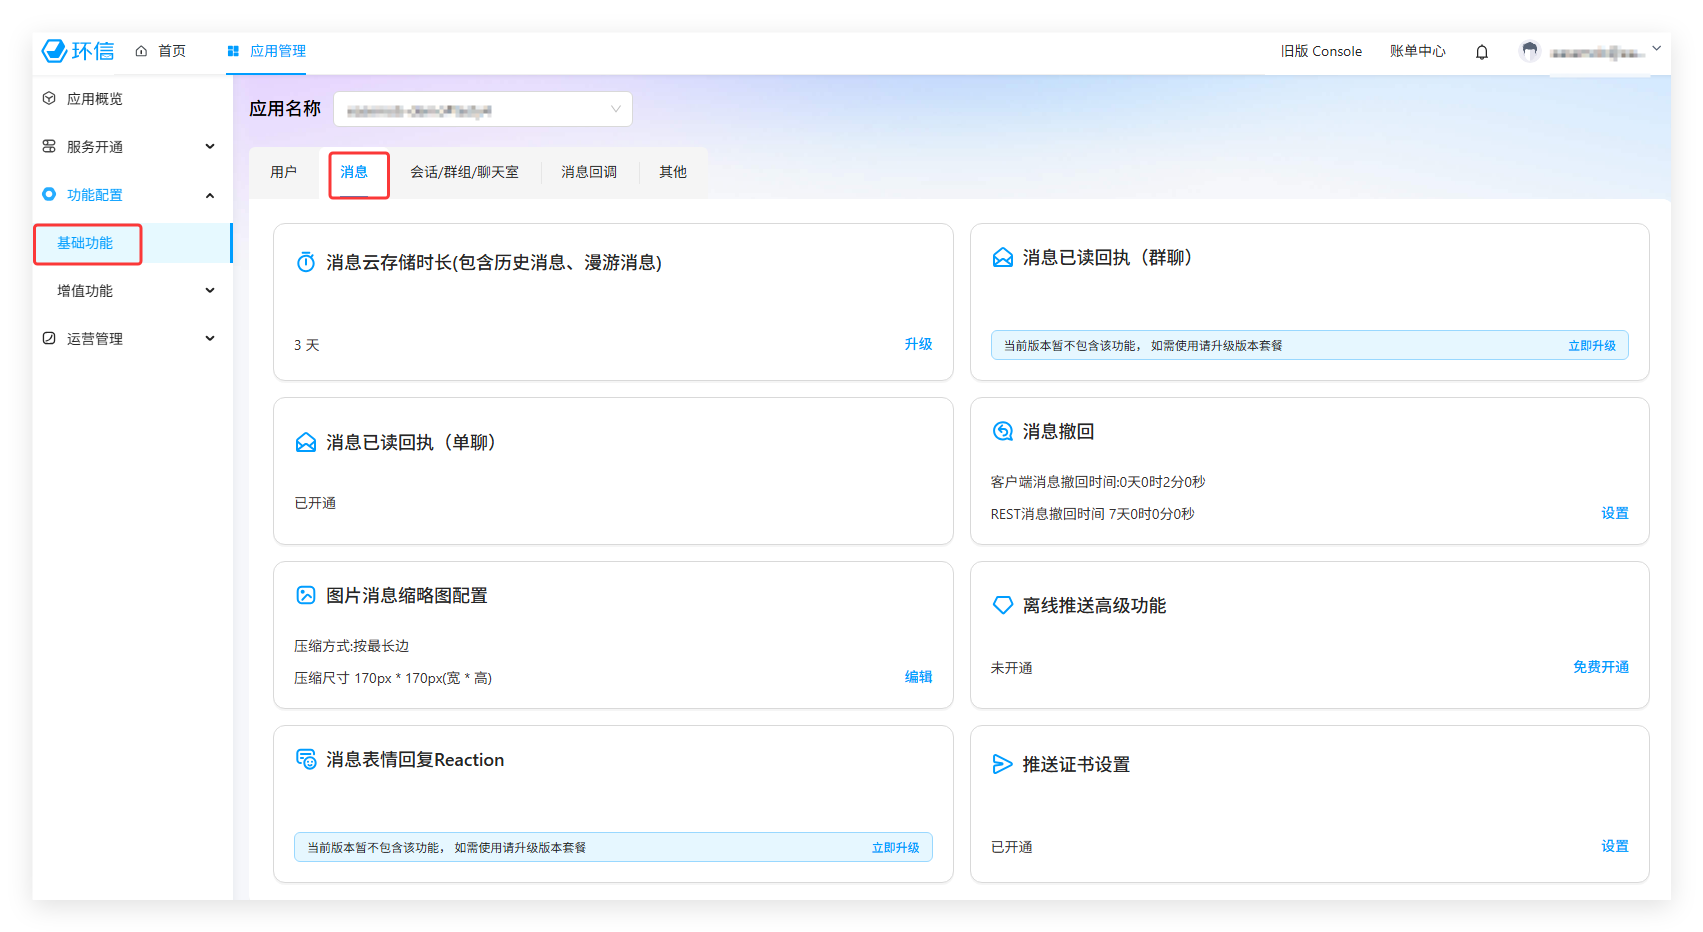
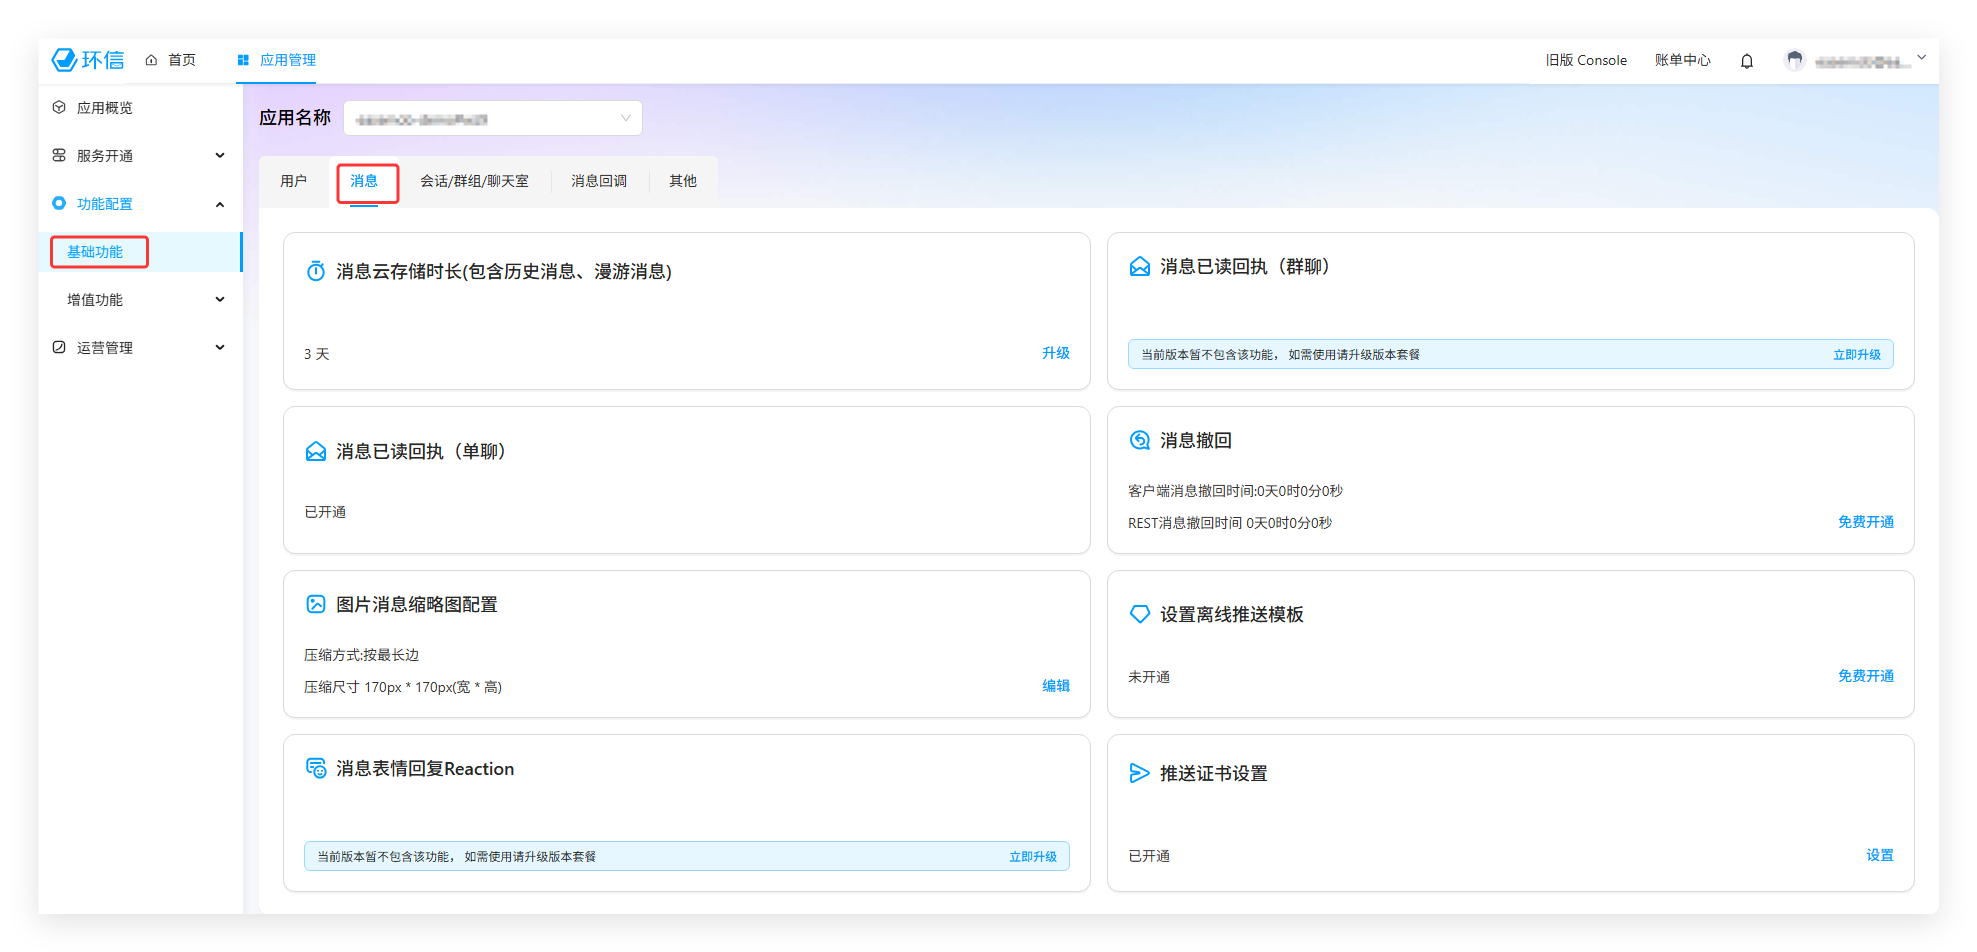
modify

diff --git a/docs/.vuepress/sidebar/index.ts b/docs/.vuepress/sidebar/index.ts
@@ -552,7 +552,9 @@ export const zhSidebar = sidebar({
              children: [
              { text: "数据查询", link: "console/operation_data.html" },
              { text: "消息量统计", link: "console/operation_message_statistics.html" }, 
-             {
+             ],
+            },
+            {
              text: "问题排查",
              collapsible: true,
              children: [
@@ -561,8 +563,6 @@ export const zhSidebar = sidebar({
              { text: "用户连接状态查询", link: "console/operation_troubleshooting_user_connection.html" },
              { text: "用户设备日志", link: "console/operation_troubleshooting_device_log.html" },
              { text: "聊天室消息速率", link: "console/operation_troubleshooting_chatroom_rate.html" },
-             ],
-            },
              ],
             },
           ],

diff --git a/docs/product/console/basic_webhook.md b/docs/product/console/basic_webhook.md
@@ -23,7 +23,7 @@
 
 ### 回调异常缓存
 
-对于发送后回调，每条回调请求发送失败仅重试一次，重试失败后即丢弃。若有特殊需求不能丢失回调消息的情况下，请联系环信商务开通回调异常缓存功能。
+对于发送后回调，每条回调请求发送失败仅重试一次，重试失败后即丢弃。若有特殊需求不能丢失回调消息的情况下，可开通回调异常缓存功能。
 
 服务开通后，你可以使用 [查询回调异常缓存](/document/server-side/callback_postsending.html#查询回调存储详情)和 [补发回调储存信息](/document/server-side/callback_postsending.html#补发回调存储信息) 接口。
 
@@ -97,7 +97,7 @@
 | 参数 | 是否必需 | 描述       |
 | :--------------------- | :------- | :--------------- |
 | 告警开关 | 是 | 是否开启发送后回调失败告警功能。      |
-| 告警策略 | 是 | <br/> - **告警间隔**：触发告警的时间间隔，单位为 5 分钟。 <br/> - **触发次数**：告警间隔内触发告警的回调失败次数。   |
+| 告警策略 | 是 | - **告警间隔**：触发告警的时间间隔，单位为 5 分钟。 <br/> - **触发次数**：告警间隔内触发告警的回调失败次数。   |
 | 邮箱地址 | 是 | 接收发送后回调失败告警的邮箱地址。一次最多可输入 20 个，每行一个。      |
 
 

diff --git a/docs/product/console/basic_message.md b/docs/product/console/basic_message.md
@@ -63,13 +63,15 @@
 
 ![img](/images/console/basic_message_thumbnail_edit.png)
 
-## 离线推送高级功能
+## 设置离线推送模板
 
 离线推送的高级功能包括 [推送通知方式](/document/android/push/push_notification_mode_dnd.html#推送通知方式)、[免打扰模式](/document/android/push/push_notification_mode_dnd.html#免打扰模式) 和 [推送模板](/document/android/push/push_display.html#使用推送模板)。
 
-使用前离线推送高级功能，需点击 **免费开通** 开通该功能。功能开通后，你可以配置推送模板，详见 [推送模板配置文档](push_template.html)。 
+使用前离线推送高级功能，需点击 **免费开通** 开通该功能。功能开通后，你可以点击 **设置** 配置推送模板，详见 [推送模板配置文档](push_template.html)。 
 
 ![img](/images/console/basic_message_push_offline.png)
+
+![img](/images/console/basic_message_push_online_set.png)
 
 ## 推送证书配置
 

diff --git a/docs/product/product_message_format.md b/docs/product/product_message_format.md
@@ -258,6 +258,8 @@
 | `name`         | String       | 推送模板名称。                                                 |
 | `title_args`   | `List<String>` | 推送模板标题参数，内置参数：发送方昵称 `{$fromNickname}`。      |
 | `content_args` | `List<String>` | 推送模板内容参数，内置参数：消息内容 `{$msg}`，如果开通了翻译，消息内容会跟随翻译结果显示。 |
+| `directed_template` | Object        | 定向推送模板。此类模板适用于群组消息的离线推送，即群组中某个或某些用户需要接收接收的离线推送通知与其他用户不同的场景。其中的字段如下表所示。    |
+| `disable_at_content` | Boolean        | 是否禁用默认 @ 内容：<br/> - `true`：禁用<br/> - （默认）`false`：不禁用  |
 
 关于 `title_args` 和 `content_args` 字段的设置，详见[推送模板文档](/document/server-side/push.html#使用推送模板)。
 

diff --git a/docs/document/server-side/push_extension.md b/docs/document/server-side/push_extension.md
@@ -35,6 +35,7 @@
 | `title_args`   | `List<String>` | 推送模板标题参数，内置参数：发送方昵称 `{$fromNickname}`。      |
 | `content_args` | `List<String>` | 推送模板内容参数，内置参数：消息内容 `{$msg}`，如果开通了翻译，消息内容会跟随翻译结果显示。 |
 | `directed_template` | Object        | 定向推送模板。此类模板适用于群组消息的离线推送，即群组中某个或某些用户需要接收接收的离线推送通知与其他用户不同的场景。其中的字段如下表所示。    |
+| `disable_at_content` | Boolean        | 是否禁用默认 @ 内容：<br/> - `true`：禁用<br/> - （默认）`false`：不禁用  |
 
 定向模板中的字段：
 

diff --git a/docs/product/console/account_sub_create.md b/docs/product/console/account_sub_create.md
@@ -7,7 +7,7 @@
 ## 创建子账号
 
 1. 使用主账号登录 [环信控制台](https://console.easemob.com/user/login)。
-2. 鼠标悬停或单击右上角账号管理下拉菜单，选择 **成员管理**。
+2. 鼠标悬停或单击右上角账号管理下拉菜单，选择 **成员管理**。你可以可以选择 **账号信息**，然后在左侧导航栏选择 **成员管理**。
 3. 在 **成员管理** 页面，点击 **添加成员**。
 4. 在 **创建成员** 对话框，设置子账号信息，包括登录邮箱、登录密码、手机号码、角色权限和备注。
 5. 点击 **创建** 保存子账号信息。

diff --git a/docs/product/console/moderation_rule_test.md b/docs/product/console/moderation_rule_test.md
@@ -18,7 +18,7 @@
    
 6. 在 **消息处理结果** 栏中，查看审核结果和消息处理结果。
 
-审核结果：表示智能模型审核返回的结果。如果该结果不符合预期，可通过新增自定义调整，如有疑问可联系商务。
+审核结果：表示智能模型审核返回的结果。如果该结果不符合预期，可联系商务开通在第三方平台新增自定义词条的功能。
 
 - 调用成功时，会返回 通过/拒绝/疑似；
 - 调用异常，会出现 无权限/调用失败（即超时未返回结果）两类情况。

diff --git a/docs/product/console/moderation_history.md b/docs/product/console/moderation_history.md
@@ -41,4 +41,4 @@
 通过查看历史记录列表中的 **消息处置结果**，判断审核结果是否符合业务预期。
 
 - 若不符合，修改对应的规则配置，详见 [规则配置](moderation_rule_config.html)。
-- 若符合，说明审核服务的逻辑符合预期，但实际 IM 消息表现效果不一致，则请在IM的支持群中发出问题进行排查解决。
+- 若符合，说明审核服务的逻辑符合预期，但实际 IM 消息表现效果不一致，请联系环信技术支持。

diff --git a/docs/product/console/account_register.md b/docs/product/console/account_register.md
@@ -6,7 +6,7 @@
 
 你可以通过手机号和短信验证码注册环信账号：
 
-1. 打开 [环信控制台](https://console.easemob.com/user/login) 登录页面。
+1. 打开 [环信控制台](https://console.easemob.com/user/register) 登录页面。
 2. 输入你的手机号码，然后单击 **获取验证码**，将下方的滑块拖动到最右边。
 3. 填入短信验证码后，阅读并勾选同意通讯云服务条款和通讯云隐私政策。
 4. 单击 **注册** 。

diff --git a/docs/product/console/basic_conversation_group_chatroom.md b/docs/product/console/basic_conversation_group_chatroom.md
@@ -44,7 +44,7 @@
 
 ## 消息话题
 
-子区是群组成员的子集，是支持多人沟通的即时通讯系统。
+消息话题是群组成员的子集，是支持多人沟通的即时通讯系统。
 你可以根据当前的套餐包版本开通该服务：
 
 - 免费版：点击 **立即升级** 升级至专业版或旗舰版。
